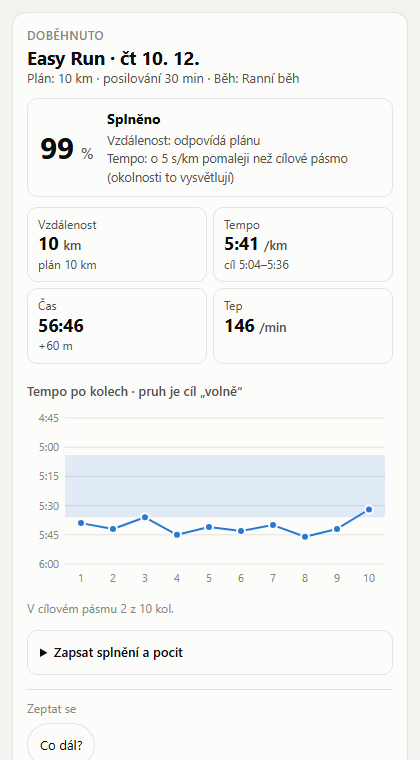
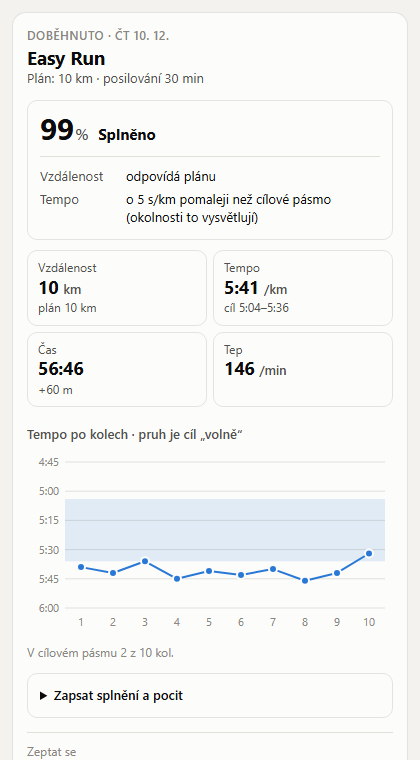
Result card: no VDOT, date in the eyebrow, tidier score block
- the title is the workout name only; day and date move to the eyebrow
- score shows "95% Splněno" on one line with aligned label/value rows
  below; the form estimate is a row there, without VDOT
- VDOT is no longer shown on the plan or paces cards either

diff --git a/public/widget.html b/public/widget.html
@@ -128,8 +128,6 @@ th, td { padding: 5px 6px; border-bottom: 1px solid var(--grid); text-align: rig
 th { color: var(--ink2); font-weight: 600; }
 th:first-child, td:first-child { text-align: left; white-space: normal; }
 td small { color: var(--ink2); font-size: 11.5px; }
-.est { display: flex; align-items: baseline; gap: 8px; margin-top: 8px; padding: 8px 12px; border-radius: 10px; background: var(--wash); font-size: 13px; color: var(--ink2); }
-.est b { color: var(--ink); font-size: 15px; }
 td .warn-mark { color: var(--warn-ink); font-weight: 650; }
 details.issues ul { margin: 6px 0 0; padding-left: 18px; color: var(--ink2); font-size: 13px; }
 details.issues li { margin: 4px 0; }
@@ -150,10 +148,14 @@ table.weeks tr.now td { font-weight: 650; }
 .tip span { color: var(--ink2); }
 
 /* doběhnuto */
-.score { display: flex; align-items: center; gap: 14px; margin-top: 10px; padding: 10px 12px; border: 1px solid var(--border); border-radius: 10px; }
-.score .big { flex: none; white-space: nowrap; font-size: 30px; font-weight: 700; line-height: 1; letter-spacing: -.02em; }
-.score .big small { font-size: 15px; font-weight: 600; color: var(--ink2); }
-.score ul { margin: 2px 0 0; padding: 0; list-style: none; color: var(--ink2); font-size: 12.5px; }
+.score { margin-top: 12px; padding: 12px; border: 1px solid var(--border); border-radius: 10px; }
+.score .top { display: flex; align-items: baseline; gap: 10px; }
+.score .big { font-size: 30px; font-weight: 700; line-height: 1; letter-spacing: -.02em; font-variant-numeric: tabular-nums; }
+.score .big small { margin-left: 2px; font-size: 16px; font-weight: 600; color: var(--ink2); }
+.score .top b { font-size: 15px; }
+.score ul { display: grid; gap: 4px; margin: 10px 0 0; padding: 10px 0 0; border-top: 1px solid var(--grid); list-style: none; color: var(--ink); font-size: 13px; }
+.score li { display: grid; grid-template-columns: 78px minmax(0, 1fr); gap: 8px; }
+.score li span { color: var(--ink2); }
 .form { margin-top: 12px; padding: 10px 12px; border: 1px solid var(--border); border-radius: 10px; }
 .form .k { margin: 10px 0 5px; color: var(--ink2); font-size: 12px; font-weight: 600; }
 .form .k:first-child { margin-top: 0; }
@@ -430,7 +432,7 @@ td .ok { color: var(--good-ink); font-size: 15px; font-weight: 700; }
   // Forma: odhady VDOT z hodnocených běhů a předpověď na cílovou vzdálenost.
   function fitnessBlock(f, width) {
     var dist = num(Math.round(f.distanceM / 100) / 10) + ' km';
-    var h = '<h3>Forma · odhad z hodnocených běhů</h3><div class="tiles"><div class="tile"><div class="k">Odhad na ' + dist + '</div><div class="v">' + dur(f.predictedSec) + '</div><div class="n">VDOT ' + num(f.vdot) + '</div></div>';
+    var h = '<h3>Forma · odhad z hodnocených běhů</h3><div class="tiles"><div class="tile"><div class="k">Odhad na ' + dist + '</div><div class="v">' + dur(f.predictedSec) + '</div></div>';
     if (f.targetSec) { var gap = f.predictedSec - f.targetSec; h += '<div class="tile"><div class="k">Cíl</div><div class="v">' + dur(f.targetSec) + '</div><div class="n">' + (Math.abs(gap) < 5 ? 'na cíli' : (gap > 0 ? 'chybí ' : 'rezerva ') + dur(Math.abs(gap))) + '</div></div>'; }
     h += '</div>';
     if (f.points.length > 1) {
@@ -652,7 +654,7 @@ td .ok { color: var(--good-ink); font-size: 15px; font-weight: 700; }
       }
     }
     if (c) {
-      h += '<div class="sub">Z výkonu ' + num(Math.round(c.distanceM / 100) / 10) + ' km za ' + dur(c.timeSec) + ' · VDOT ' + num(c.vdot) + (c.saved ? ' · uloženo v profilu' : '') + '</div>';
+      h += '<div class="sub">Z výkonu ' + num(Math.round(c.distanceM / 100) / 10) + ' km za ' + dur(c.timeSec) + (c.saved ? ' · uloženo v profilu' : '') + '</div>';
       h += '<h3>Předpověď závodů</h3><div class="pred">' + c.predictions.map(function (x) { return '<div><div class="k">' + esc(x.label) + '</div><div class="v">' + dur(x.timeSec) + '</div></div>'; }).join('') + '</div>';
       if (!c.saved) h += opener('Uložit tato tempa', 'calculate_paces', { distanceM: c.distanceM, timeSec: c.timeSec, save: true }, 'Ulož mi tato tempa do profilu.', ' class="primary"');
     }
@@ -698,12 +700,13 @@ td .ok { color: var(--good-ink); font-size: 15px; font-weight: 700; }
   function renderResult(d, width) {
     var r = d.run, w = d.workout, t = d.target, sc = d.score, c = d.checkin, v = d.verdict || {};
     if (!form || form.id !== w.id) form = { id: w.id, status: c.status === 'scheduled' || c.status === 'skipped' ? (sc ? sc.suggestedStatus : 'completed') : c.status, feel: c.feel, pain: c.pain || 'none', conditions: c.conditions.slice() };
-    var h = head(null, d) + '<div class="eyebrow">Doběhnuto</div><h2>' + esc(w.title) + ' · ' + DOW[w.dow] + ' ' + dm(w.date) + '</h2>';
-    h += '<div class="sub">Plán: ' + esc(w.summary) + (r && r.name ? ' · Běh: ' + esc(r.name) : '') + '</div>';
+    var h = head(null, d) + '<div class="eyebrow">Doběhnuto · ' + DOW[w.dow] + ' ' + dm(w.date) + '</div><h2>' + esc(w.title) + '</h2>';
+    h += '<div class="sub">Plán: ' + esc(w.summary) + '</div>';
     if (r) {
       if (sc) {
-        h += '<div class="score"><div class="big">' + sc.total + ' <small>%</small></div><div><b>' + esc(sc.label) + '</b><ul>' + sc.parts.map(function (p) { return '<li>' + esc(p.label) + ': ' + esc(p.text) + '</li>'; }).join('') + '</ul></div></div>';
-        if (d.estimate) h += '<div class="est"><span>Odhad formy</span><b>' + dur(d.estimate.sec) + '</b> na ' + num(Math.round(d.estimate.distanceM / 100) / 10) + ' km · VDOT ' + num(d.estimate.vdot) + '</div>';
+        var rows = sc.parts.map(function (p) { return '<li><span>' + esc(p.label) + '</span>' + esc(p.text) + '</li>'; });
+        if (d.estimate) rows.push('<li><span>Forma</span>' + dur(d.estimate.sec) + ' na ' + num(Math.round(d.estimate.distanceM / 100) / 10) + ' km</li>');
+        h += '<div class="score"><div class="top"><span class="big">' + sc.total + '<small>%</small></span><b>' + esc(sc.label) + '</b></div><ul>' + rows.join('') + '</ul></div>';
       }
       h += '<div class="tiles' + (r.avgHr == null ? '' : ' two') + '">';
       h += '<div class="tile"><div class="k">Vzdálenost</div><div class="v">' + num(Math.round(r.distanceM / 10) / 100) + ' <small>km</small></div><div class="n">plán ' + (w.kmMax ? kmRange(w.kmMin, w.kmMax) + ' km' : '–') + '</div></div>';
